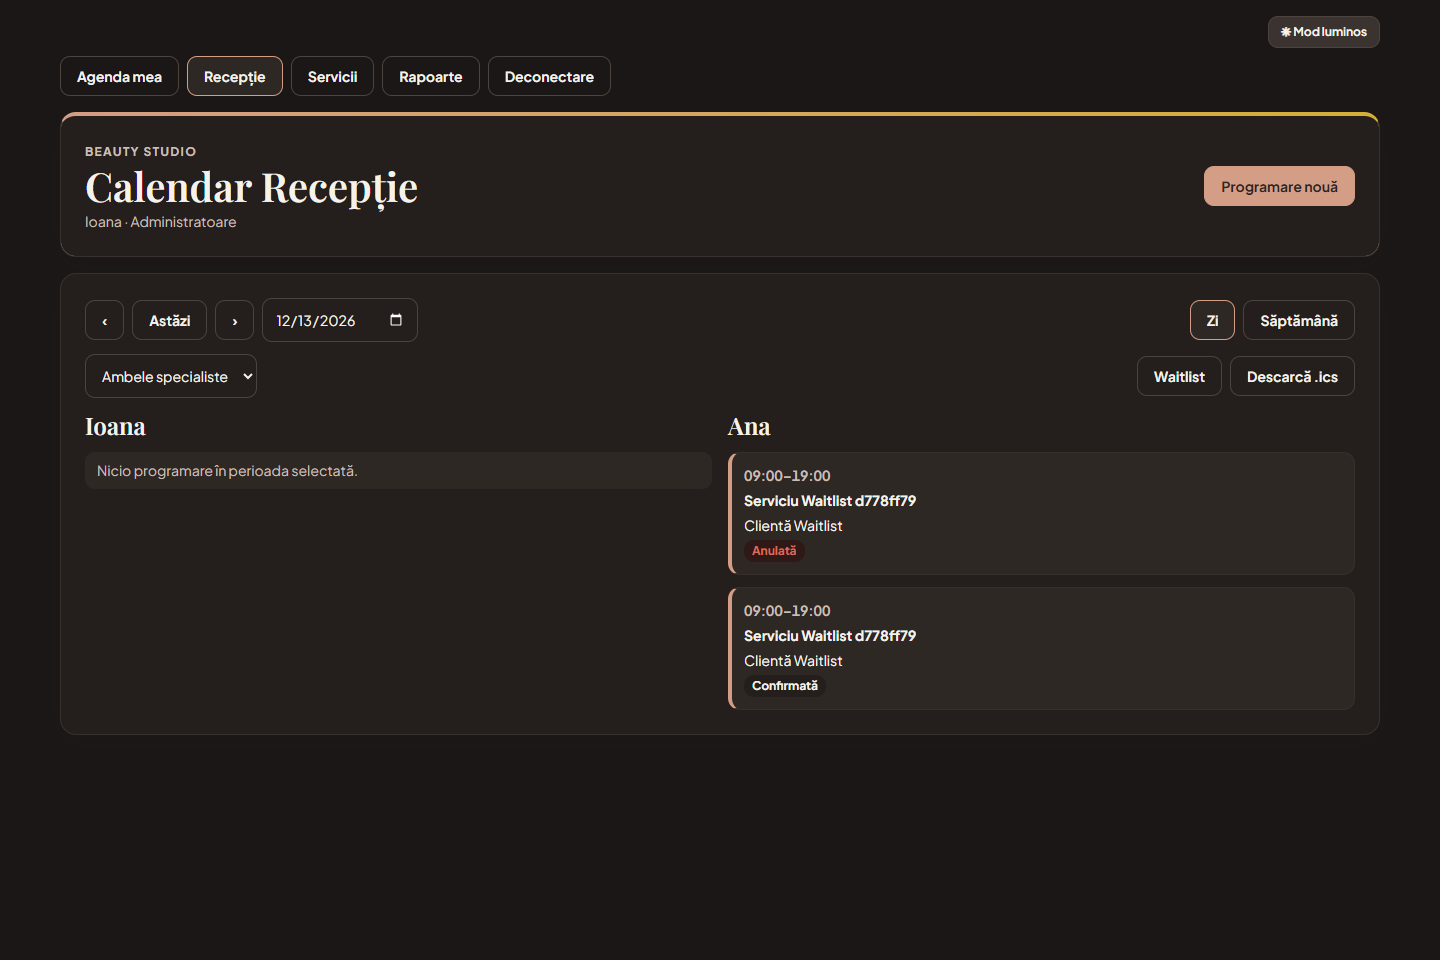
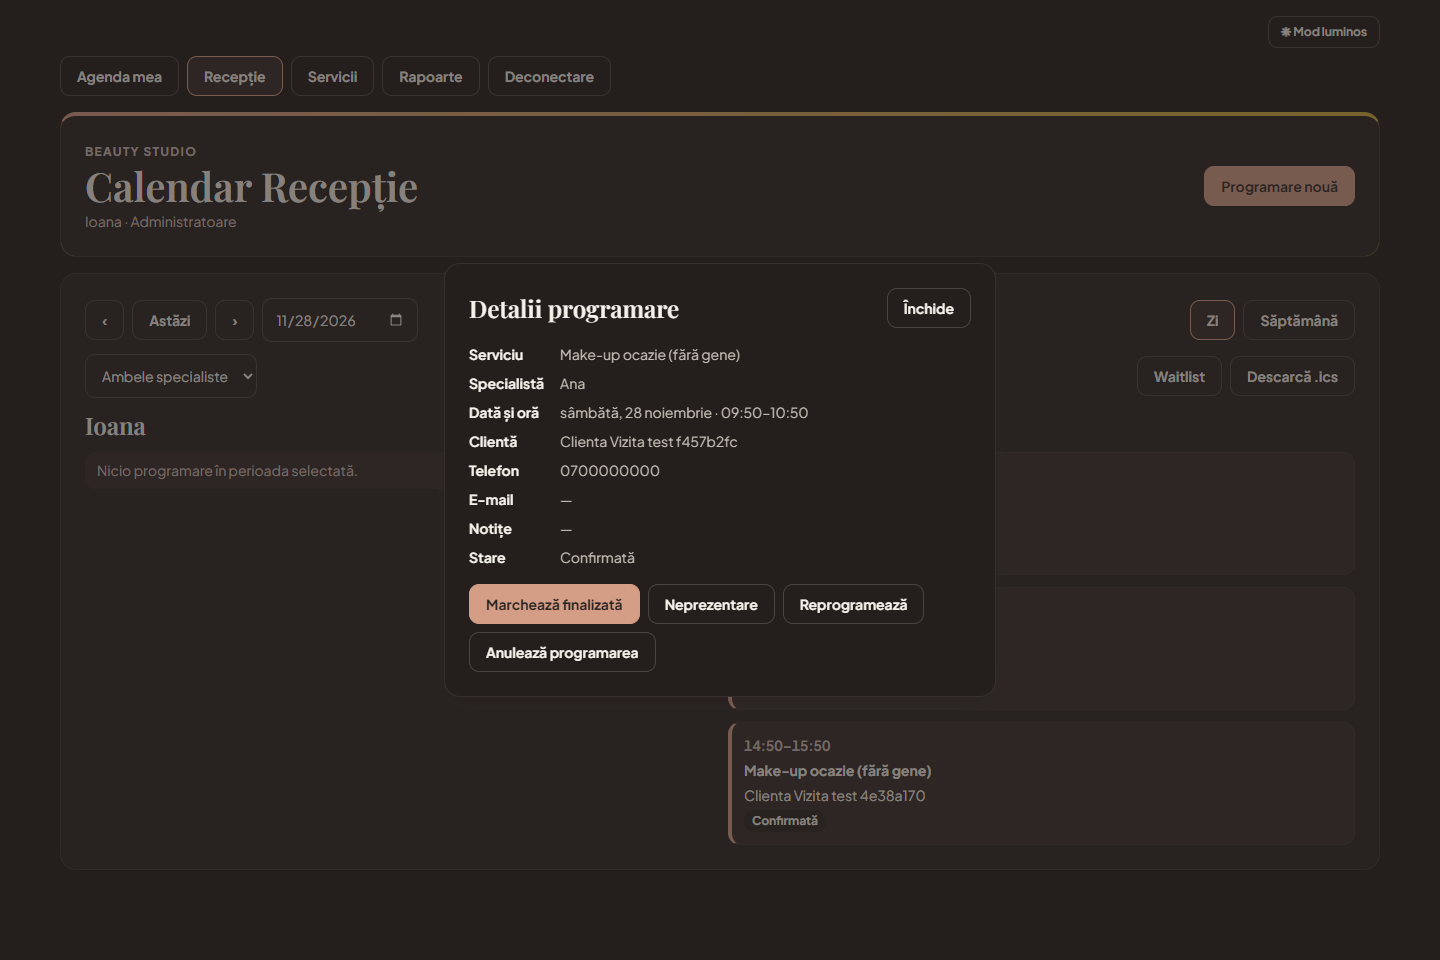
fix(staff): expose appointment completion and no-show in both calendars

diff --git a/frontend/src/pages/employee/EmployeeCalendarPage.tsx b/frontend/src/pages/employee/EmployeeCalendarPage.tsx
@@ -78,8 +78,9 @@ export function EmployeeCalendarPage({ staff, reception = false }: { staff: Staf
 
   const dayStep = view === 'week' ? 7 : 1;
   const selected = dialog && 'appointment' in dialog ? dialog.appointment : null;
-  const active = selected?.status === 'CONFIRMED' || selected?.status === 'PENDING_CONFIRMATION';
-  const mayMark = selected?.status === 'CONFIRMED' && Date.parse(selected.endTime) <= Date.now();
+  const confirmed = selected?.status === 'CONFIRMED';
+  const active = confirmed || selected?.status === 'PENDING_CONFIRMATION';
+  const mayMark = confirmed && Date.parse(selected.endTime) <= Date.now();
   const splitStageLabel = (stage: Appointment['stages'][number]) =>
     `${studioTime(stage.startTime)}–${studioTime(stage.endTime)} ${stage.isBusy ? 'Ocupat' : 'Liber'}`;
 
@@ -179,10 +180,13 @@ export function EmployeeCalendarPage({ staff, reception = false }: { staff: Staf
         <dt>Stare</dt><dd>{visitLabels[selected.status]}</dd>
       </dl>
       {dialogError && <p role="alert" className="staff-error">{dialogError}</p>}
+      {confirmed && !mayMark && <p>Marcarea este disponibilă după ora de sfârșit.</p>}
       <div className="staff-controls">
-        {mayMark && <>
-          <button className="primary-button" disabled={pending} onClick={() => void action(selected, 'complete')}>Finalizată</button>
-          <button className="secondary-button" disabled={pending} onClick={() => void action(selected, 'no-show')}>Neprezentare</button>
+        {confirmed && <>
+          <button className="primary-button" disabled={pending || !mayMark}
+            onClick={() => void action(selected, 'complete')}>Marchează finalizată</button>
+          <button className="secondary-button" disabled={pending || !mayMark}
+            onClick={() => void action(selected, 'no-show')}>Neprezentare</button>
         </>}
         {reception && active && <>
           <button className="secondary-button" disabled={pending} onClick={() => open({ type: 'move', appointment: selected })}>Reprogramează</button>

diff --git a/docs/design/mocks/DS-adm-calendar.html b/docs/design/mocks/DS-adm-calendar.html
@@ -1085,6 +1085,12 @@
         </div>
       </div>
       <div class="modal-actions">
+        <button class="btn-action-primary" type="button"
+          onclick="closeModal('modal-detail'); showToast('Programarea a fost marcată finalizată.');">Marchează finalizată</button>
+        <button class="btn-action-secondary" type="button"
+          onclick="closeModal('modal-detail'); showToast('Programarea a fost marcată ca neprezentare.');">Neprezentare</button>
+      </div>
+      <div class="modal-actions">
         <button class="btn-action-secondary" style="color:var(--destructive); border-color:var(--destructive);" onclick="cancelAppointmentFromModal()">
           🗑 Anulează Programarea
         </button>

diff --git a/server/src/modules/appointments/staff-calendar.controller.ts b/server/src/modules/appointments/staff-calendar.controller.ts
@@ -74,7 +74,8 @@ export class EmployeeCalendarController {
   @HttpCode(200)
   mark(@Param('id', ParseUUIDPipe) id: string, @Param('action', new ParseEnumPipe(Attendance)) action: Attendance,
     @CurrentStaff() user: StaffUser) {
-    return this.appointments.change({ id, specialistId: user.id }, action, false);
+    const admin = user.role === 'ADMIN';
+    return this.appointments.change(admin ? { id } : { id, specialistId: user.id }, action, admin);
   }
 
   @Get('calendar.ics')

diff --git a/docs/design/mocks/DS-emp-schedule.html b/docs/design/mocks/DS-emp-schedule.html
@@ -153,7 +153,7 @@
       <dt>Stare</dt><dd id="detail-status"></dd>
     </dl>
     <div class="row" id="status-actions">
-      <button type="button" class="primary" data-status="Finalizată">Finalizată</button>
+      <button type="button" class="primary" data-status="Finalizată">Marchează finalizată</button>
       <button type="button" data-status="Neprezentare">Neprezentare</button>
     </div>
   </dialog>

diff --git a/docs/design/DESIGN.md b/docs/design/DESIGN.md
@@ -150,7 +150,9 @@ Pagina afișează mesajul despre rezervarea fără cont în antet și folosește
 ### 6.5. Rolurile personalului
 
 - **Admin (Ioana).** Calendarul Recepției arată ambele specialiste simultan și permite filtrarea după specialistă. Recepția deschide dialogurile de creare, mutare, detalii și Waitlist. În Zi Full afișează politica online și permite gestiunea prin salon.
-- **Specialistă Make-up (Ana).** Agenda personală afișează exclusiv programările proprii și detaliile clientelor aferente, fără navigare spre Recepție. Vizitele confirmate pot fi marcate după ora de sfârșit.
+- **Specialistă Make-up (Ana).** Agenda personală afișează exclusiv programările proprii și detaliile clientelor aferente, fără navigare spre Recepție.
+
+În Recepție și în agenda proprie, „Detalii programare” afișează „Marchează finalizată” și „Neprezentare” pentru vizitele confirmate. Acțiunile devin disponibile după ora de sfârșit.
 
 Loginul de personal cere e-mail și parolă. Destinația vine din sesiunea verificată de Server. Agenda zilnică se afișează ca listă cronologică, pe o singură coloană la 390 px, iar săptămâna începe luni. Exportul `.ics` respectă perioada și domeniul agendei afișate. Stările sunt etichetate în Light și Dark Mode. Cardul din `/cont` deschide implicit „Acces client”, cu autentificare și creare cont, înainte de panoul Contul Meu & Fidelizare. Tab-ul „Acces personal” afișează formularul de autentificare disponibil și pe ruta directă `/staff/login`.
 
